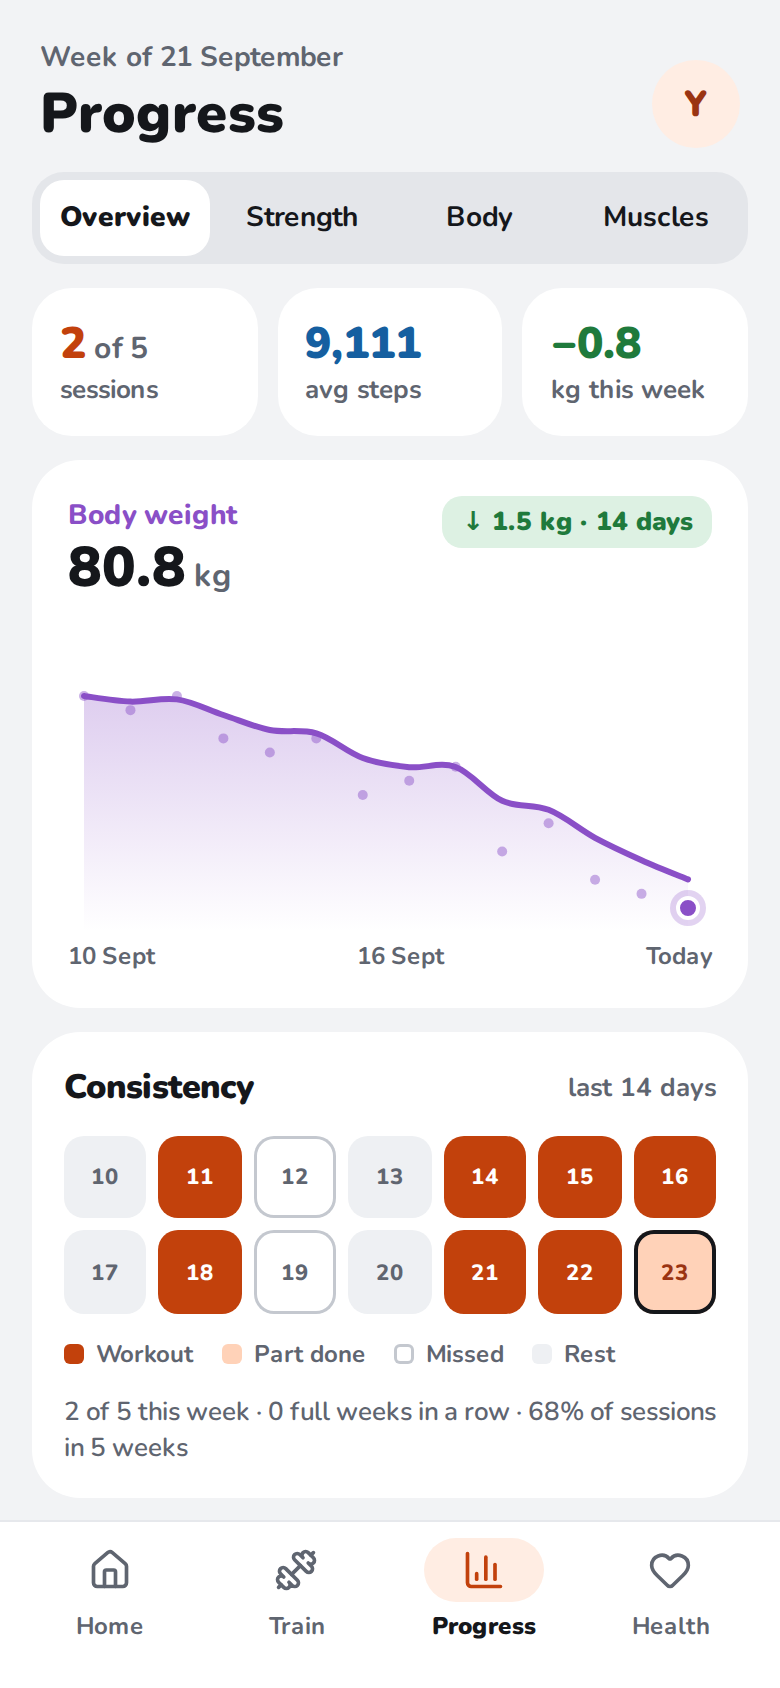
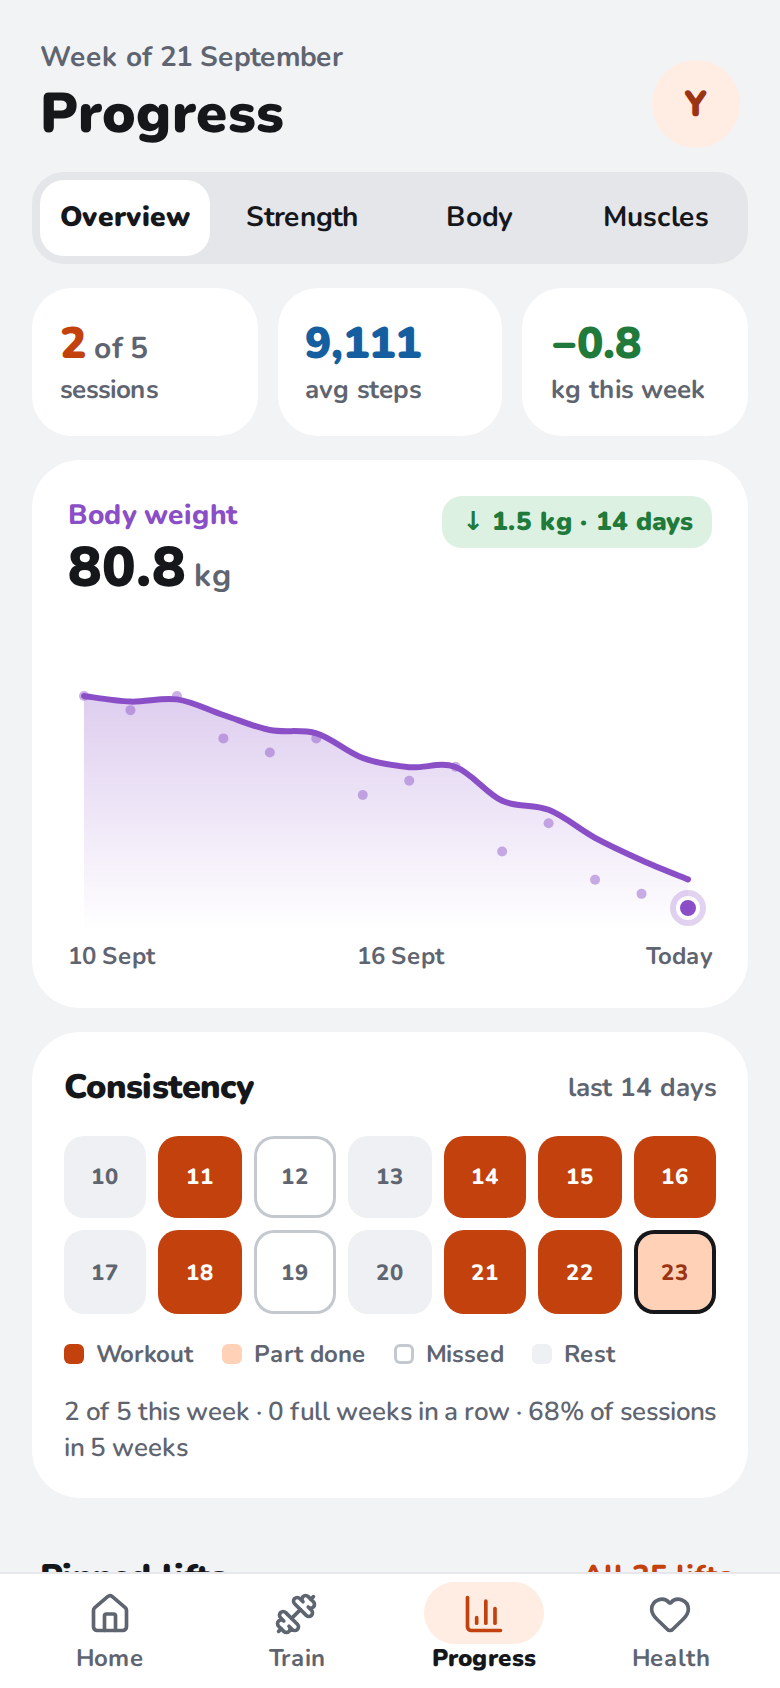
Tab bar: as tall as its tabs plus the phone's own inset
The bar kept 20px at the bottom for a home indicator whatever the phone, so it
was 84px even where there's none. It's now the 50px of tabs plus the phone's
real inset, or 8px: 58px with no inset, about 74px above an Android gesture
bar, and still the board's 84px on an iPhone.

Claude-Session: https://claude.ai/code/session_01W3N7J58zfpKW6Nw14M15Sd

diff --git a/src/styles/shell.css b/src/styles/shell.css
@@ -8,7 +8,10 @@
   --sar:var(--safe-area-inset-right,env(safe-area-inset-right,0px));
   --gut-l:max(var(--space-4),var(--sal));
   --gut-r:max(var(--space-4),var(--sar));
-  --tabbar:calc(var(--tabbar-height) - 20px + max(20px,var(--sab)));
+  /* The tab bar: --tabbar-height (84px) is the board's, on an iPhone, with its 34px home indicator in it. Here it's
+     the 50px of tabs plus the phone's own inset at the bottom, or 8px with none: no room kept for an indicator that
+     isn't there (an Android phone, a browser), and just the board's 84px on an iPhone. */
+  --tabbar:calc(var(--tabbar-height) - 34px + max(8px,var(--sab)));
   scroll-padding-top:calc(var(--sat) + 16px + var(--bars-h,0px));
 }
 
@@ -34,9 +37,9 @@
 /* the bottom tab bar: 84px with the home-indicator inset, surface with a line-strong top edge. The current tab gets a
    brand-tint pill behind its icon and a 900 label. */
 .wrap[data-tabs]{padding-bottom:var(--tabbar)}
-.tabbar{position:fixed;z-index:10;inset:auto 0 0;height:var(--tabbar);padding:8px max(8px,var(--sar)) max(20px,var(--sab)) max(8px,var(--sal));background:var(--surface);border-top:1px solid var(--line-strong);display:flex;justify-content:center}
+.tabbar{position:fixed;z-index:10;inset:auto 0 0;height:var(--tabbar);padding:4px max(8px,var(--sar)) max(8px,var(--sab)) max(8px,var(--sal));background:var(--surface);border-top:1px solid var(--line-strong);display:flex;justify-content:center}
 .tabbar-in{flex:1 1 auto;max-width:560px;display:grid;grid-template-columns:repeat(4,minmax(0,1fr))}
-.tab{display:flex;flex-direction:column;align-items:center;justify-content:flex-start;gap:4px;min-height:var(--touch-min);color:var(--ink-muted);font:var(--type-micro);text-decoration:none;-webkit-tap-highlight-color:transparent}
+.tab{display:flex;flex-direction:column;align-items:center;justify-content:flex-start;gap:1px;min-height:var(--touch-min);color:var(--ink-muted);font:var(--type-micro);line-height:13px;text-decoration:none;-webkit-tap-highlight-color:transparent}
 .tab-pill{display:grid;place-items:center;width:60px;height:32px;border-radius:16px}
 .tab[aria-current="page"]{color:var(--ink);font-weight:900}
 .tab[aria-current="page"] .tab-pill{background:var(--brand-tint);color:var(--brand-text)}
